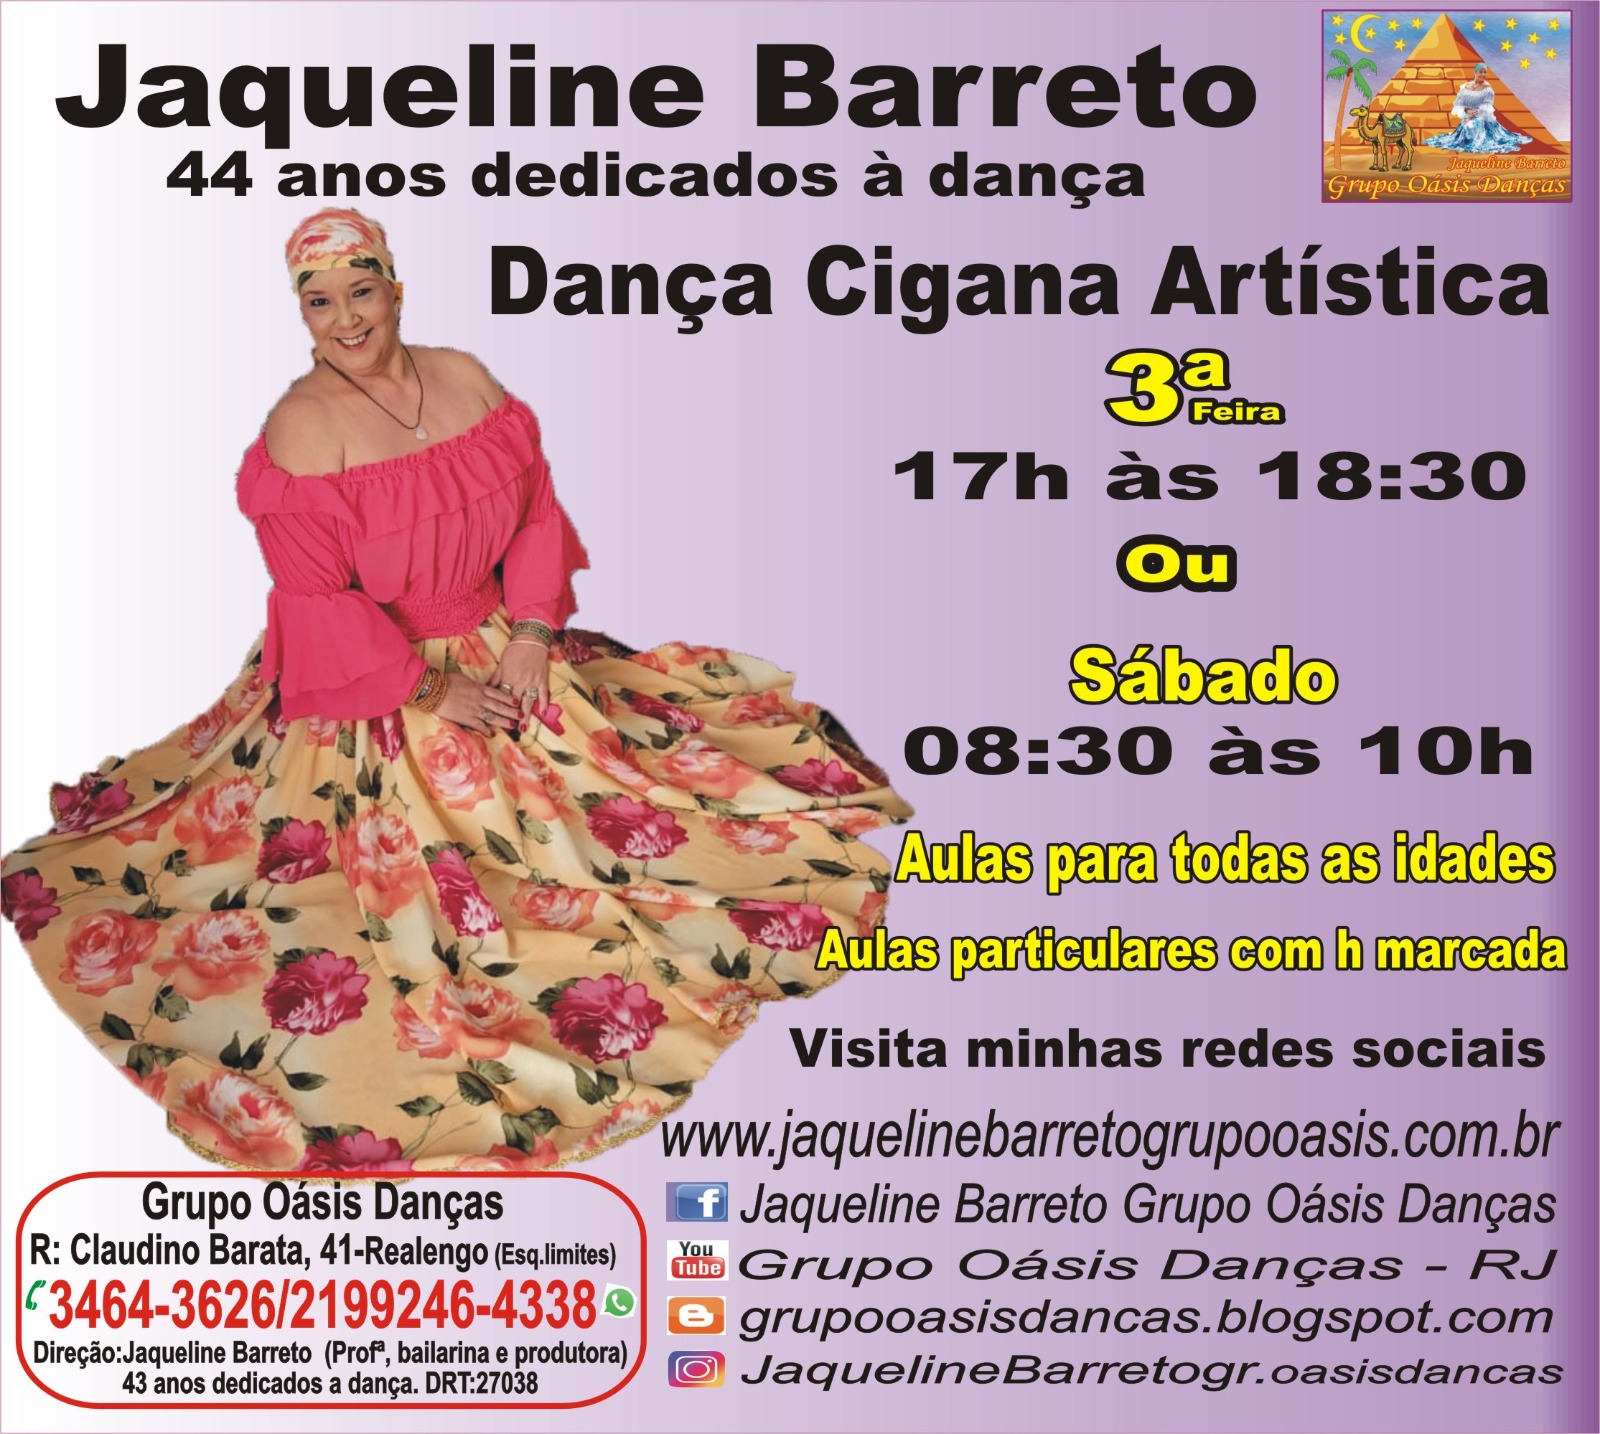
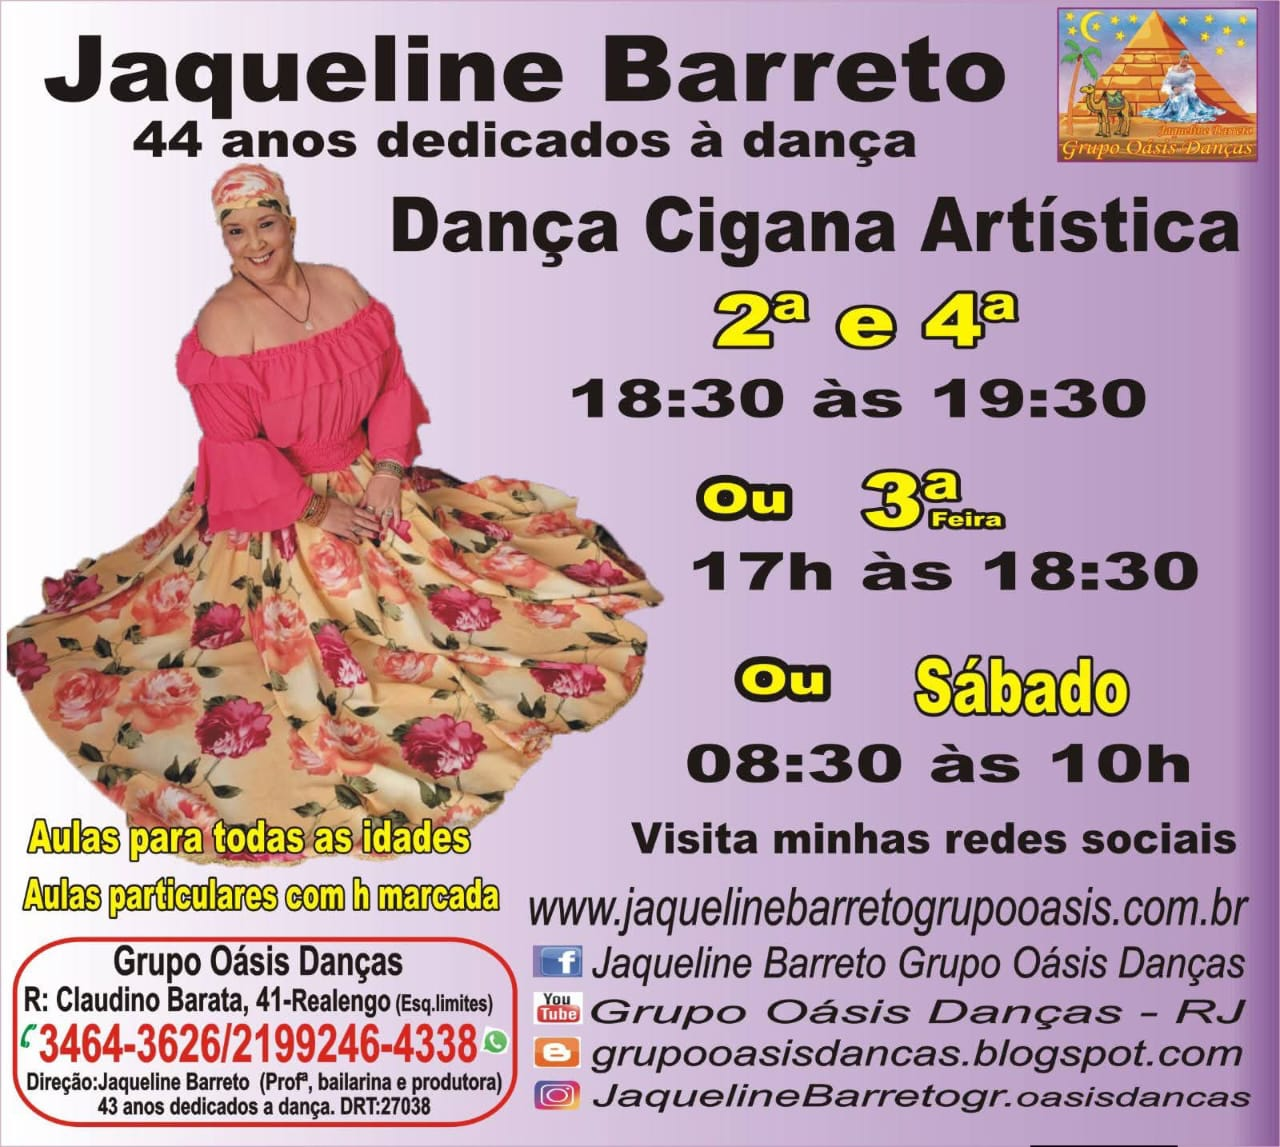
updates de links,vídeos e imagens

Changed region(s): [[0.0, 0.1221, 1.0, 0.8544], [0.8438, 0.0, 0.875, 0.0305]]

diff --git a/index.html b/index.html
@@ -364,6 +364,42 @@
                             referrerpolicy="strict-origin-when-cross-origin" allowfullscreen></iframe>
                     </div>
                 </div>
+                <div class="class-item bg-white rounded wow fadeInUp" data-wow-delay="0.7s">
+                    <div class="rounded-bottom p-4">
+                        <iframe width="300" height="200"
+                            src="https://www.youtube.com/embed/OHj9Wpmn2SQ?si=XYFPWG0qY3jEatYY"
+                            title="YouTube video player" frameborder="0"
+                            allow="accelerometer; autoplay; clipboard-write; encrypted-media; gyroscope; picture-in-picture; web-share"
+                            referrerpolicy="strict-origin-when-cross-origin" allowfullscreen></iframe>
+                    </div>
+                </div>
+                <div class="class-item bg-white rounded wow fadeInUp" data-wow-delay="0.7s">
+                    <div class="rounded-bottom p-4">
+                        <iframe width="300" height="200"
+                            src="https://www.youtube.com/embed/nlpx2plDpIw?si=H5k7uT5GYXHxqKyj"
+                            title="YouTube video player" frameborder="0"
+                            allow="accelerometer; autoplay; clipboard-write; encrypted-media; gyroscope; picture-in-picture; web-share"
+                            referrerpolicy="strict-origin-when-cross-origin" allowfullscreen></iframe>
+                    </div>
+                </div>
+                                <div class="class-item bg-white rounded wow fadeInUp" data-wow-delay="0.7s">
+                    <div class="rounded-bottom p-4">
+                        <iframe width="300" height="200"
+                            src="https://www.youtube.com/embed/ZQYKy8lvtfM?si=WU51aN_nUtdNL4E6"
+                            title="YouTube video player" frameborder="0"
+                            allow="accelerometer; autoplay; clipboard-write; encrypted-media; gyroscope; picture-in-picture; web-share"
+                            referrerpolicy="strict-origin-when-cross-origin" allowfullscreen></iframe>
+                    </div>
+                </div>
+                                                <div class="class-item bg-white rounded wow fadeInUp" data-wow-delay="0.7s">
+                    <div class="rounded-bottom p-4">
+                        <iframe width="300" height="200"
+                            src="https://www.youtube.com/embed/Ka0IwAz5kw0?si=QqwtEvZgR6GTtOhE"
+                            title="YouTube video player" frameborder="0"
+                            allow="accelerometer; autoplay; clipboard-write; encrypted-media; gyroscope; picture-in-picture; web-share"
+                            referrerpolicy="strict-origin-when-cross-origin" allowfullscreen></iframe>
+                    </div>
+                </div>
             </div>
         </div>
     </div>

diff --git a/eventos.html b/eventos.html
@@ -130,7 +130,7 @@
                     <div class="col-md-6 col-lg-4 col-xl-3 wow fadeInUp" data-wow-delay="0.1s">
                         <div class="event-item rounded">
                             <div class="position-relative">
-                                <img src="img/44mostra.jpeg" class="img-fluid rounded-top w-100" alt="Image">
+                                <img src="img/45mostra.jpeg" class="img-fluid rounded-top w-100" alt="Image">
                                 <div class="bg-primary text-white fw-bold rounded d-inline-block position-absolute p-2" style="top: 0; right: 0;">17 de Outubro de 2026</div>
                                 <div class="d-flex justify-content-between border-start border-end bg-white px-2 py-2 w-100 position-absolute" style="bottom: 0; left: 0; opacity: 0.8;">
                                     <a href="#" class="text-dark"><i class="fas fa-clock text-primary"></i>16h</a>
@@ -150,31 +150,31 @@
             <div class="container">
   <div class="row g-3">
 
-    <div class="col-12 col-md-6">
+    <!-- <div class="col-12 col-md-6">
       <img src="img/folheto03.jpeg"
            class="img-fluid w-100 rounded-top rounded-bottom object-fit-cover"
 
            alt="Jaqueline Barreto">
-    </div>
+    </div> -->
 
     <div class="col-12 col-md-6">
-      <img src="img/44mostra.jpeg"
+      <img src="img/45mostra.jpeg"
            class="img-fluid w-100 rounded-top rounded-bottom object-fit-cover"
            alt="Jaqueline Barreto">
     </div>
 
     <div class="col-12 col-md-6">
-      <img src="img/44mostra01.jpeg"
+      <img src="img/45mostra01.jpeg"
            class="img-fluid w-100 rounded-top rounded-bottom object-fit-cover"
            alt="Jaqueline Barreto">
     </div>
 
-    <div class="col-12 col-md-6">
+    <!-- <div class="col-12 col-md-6">
       <img src="img/Jack 42 anos.jpeg"
            class="img-fluid w-100 rounded-top  rounded-bottom object-fit-cover"
            
            alt="Jaqueline Barreto">
-    </div>
+    </div> -->
 
   </div>
 </div>

diff --git a/blog.html b/blog.html
@@ -121,15 +121,17 @@
 <div class="senja-embed" data-id="fd40b845-4f65-49c2-a159-c8c3f03c7931" data-mode="shadow" data-lazyload="false" style="display: block; width: 100%;"></div>
 </div>
 
-<div class="container-fluid px-0">
+<div class="container-fluid px-0 center">
 <script type="text/javascript" src="https://widget.senja.io/js/iframeResizer.min.js"></script>
 <iframe id="senja-collector-iframe" src="https://senja.io/p/jaqueline-barreto-grupo-oasis/r/SWLYUS?mode=embed" allow="camera;microphone" title="Senja form" frameborder="0" scrolling="no" width="100%" height="700"></iframe>
 <script type="text/javascript">iFrameResize({log: false, checkOrigin: false}, "#senja-collector-iframe");</script>
 </div>
+<div class="container-fluid px-0"></div>
 
-
-
-
+                        <iframe width="420" height="237" src="https://www.youtube.com/embed/oYMzk3Ayb6c?si=7DCrHvdGCfrHZKlj" title="YouTube video player" frameborder="0" allow="accelerometer; autoplay; clipboard-write; encrypted-media; gyroscope; picture-in-picture; web-share" referrerpolicy="strict-origin-when-cross-origin" allowfullscreen class="embed-responsive-item"></iframe>
+                        <iframe width="420" height="237" src="https://www.youtube.com/embed/8ejY5fFUfTo?si=M6queU2xJpaVG8wK" title="YouTube video player" frameborder="0" allow="accelerometer; autoplay; clipboard-write; encrypted-media; gyroscope; picture-in-picture; web-share" referrerpolicy="strict-origin-when-cross-origin" allowfullscreen class="embed-responsive-item"></iframe>
+   
+</div>
         <!-- Footer Start -->
         <div class="container-fluid footer py-5 wow fadeIn" data-wow-delay="0.1s">
             <div class="container py-5">

diff --git a/atelier.html b/atelier.html
@@ -154,6 +154,31 @@
            class="img-fluid w-100 rounded object-fit-cover"
            alt="Jaqueline Barreto">
     </div>
+        <div class="col-12 col-md-6">
+      <img src="img/atelier07.jpeg"
+           class="img-fluid w-100 rounded object-fit-cover"
+           alt="Jaqueline Barreto">
+    </div>
+        <div class="col-12 col-md-6">
+      <img src="img/atelier08.jpeg"
+           class="img-fluid w-100 rounded object-fit-cover"
+           alt="Jaqueline Barreto">
+    </div>
+        <div class="col-12 col-md-6">
+      <img src="img/atelier09.jpeg"
+           class="img-fluid w-100 rounded object-fit-cover"
+           alt="Jaqueline Barreto">
+    </div>
+        <div class="col-12 col-md-6">
+      <img src="img/atelier10.jpeg"
+           class="img-fluid w-100 rounded object-fit-cover"
+           alt="Jaqueline Barreto">
+    </div>
+        <div class="col-12 col-md-6">
+      <img src="img/atelier11.jpeg"
+           class="img-fluid w-100 rounded object-fit-cover"
+           alt="Jaqueline Barreto">
+    </div>
 
   </div>
 </div>
